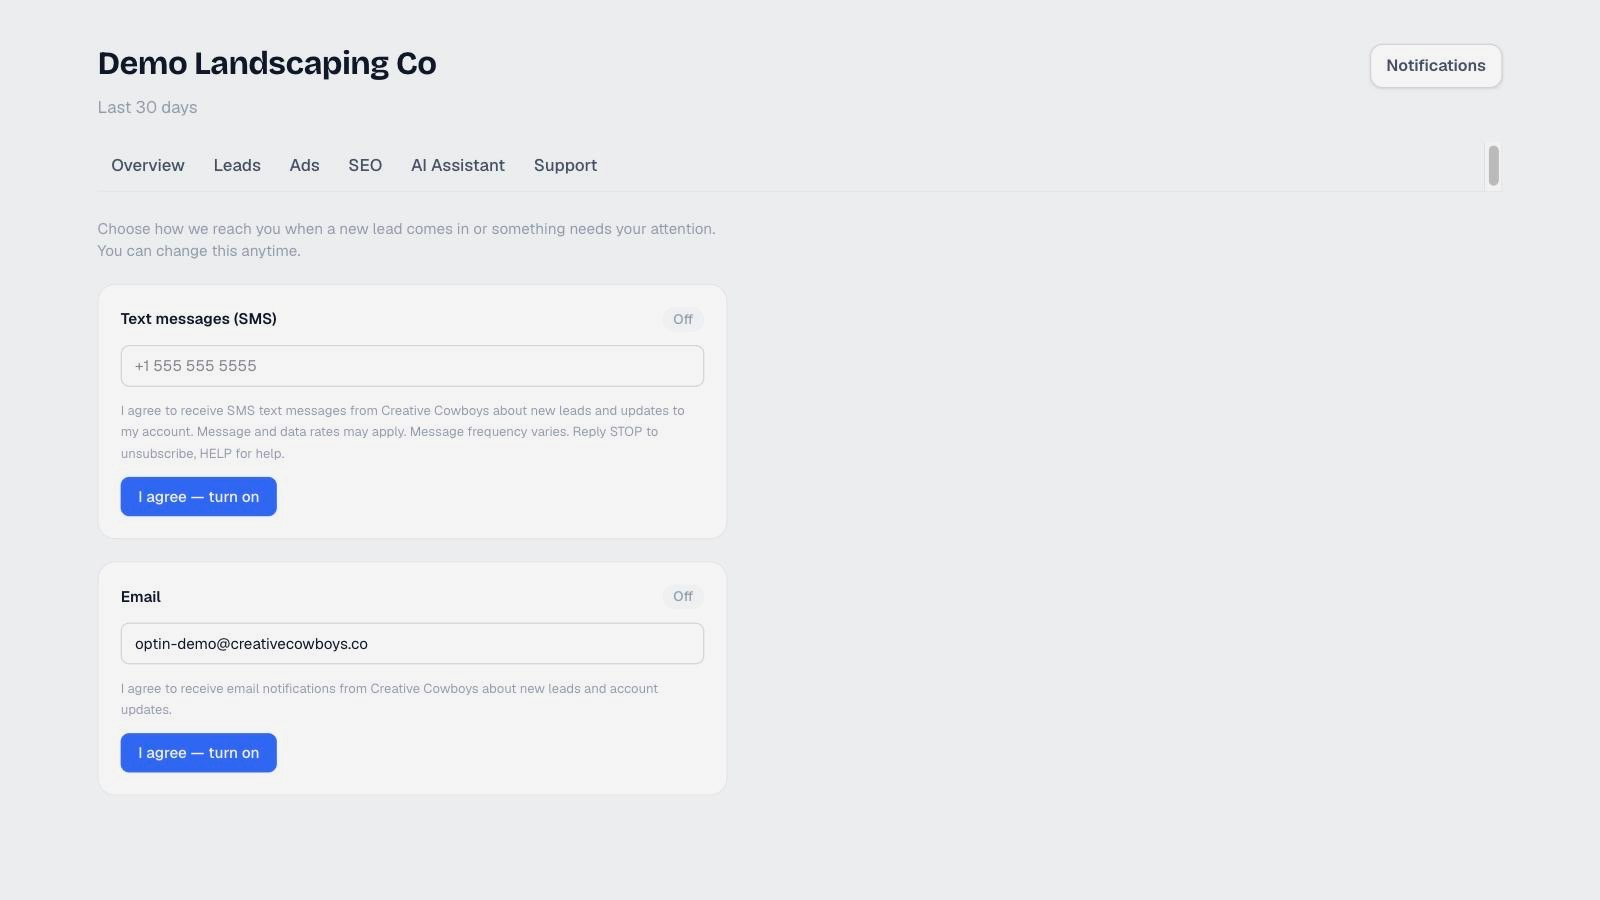
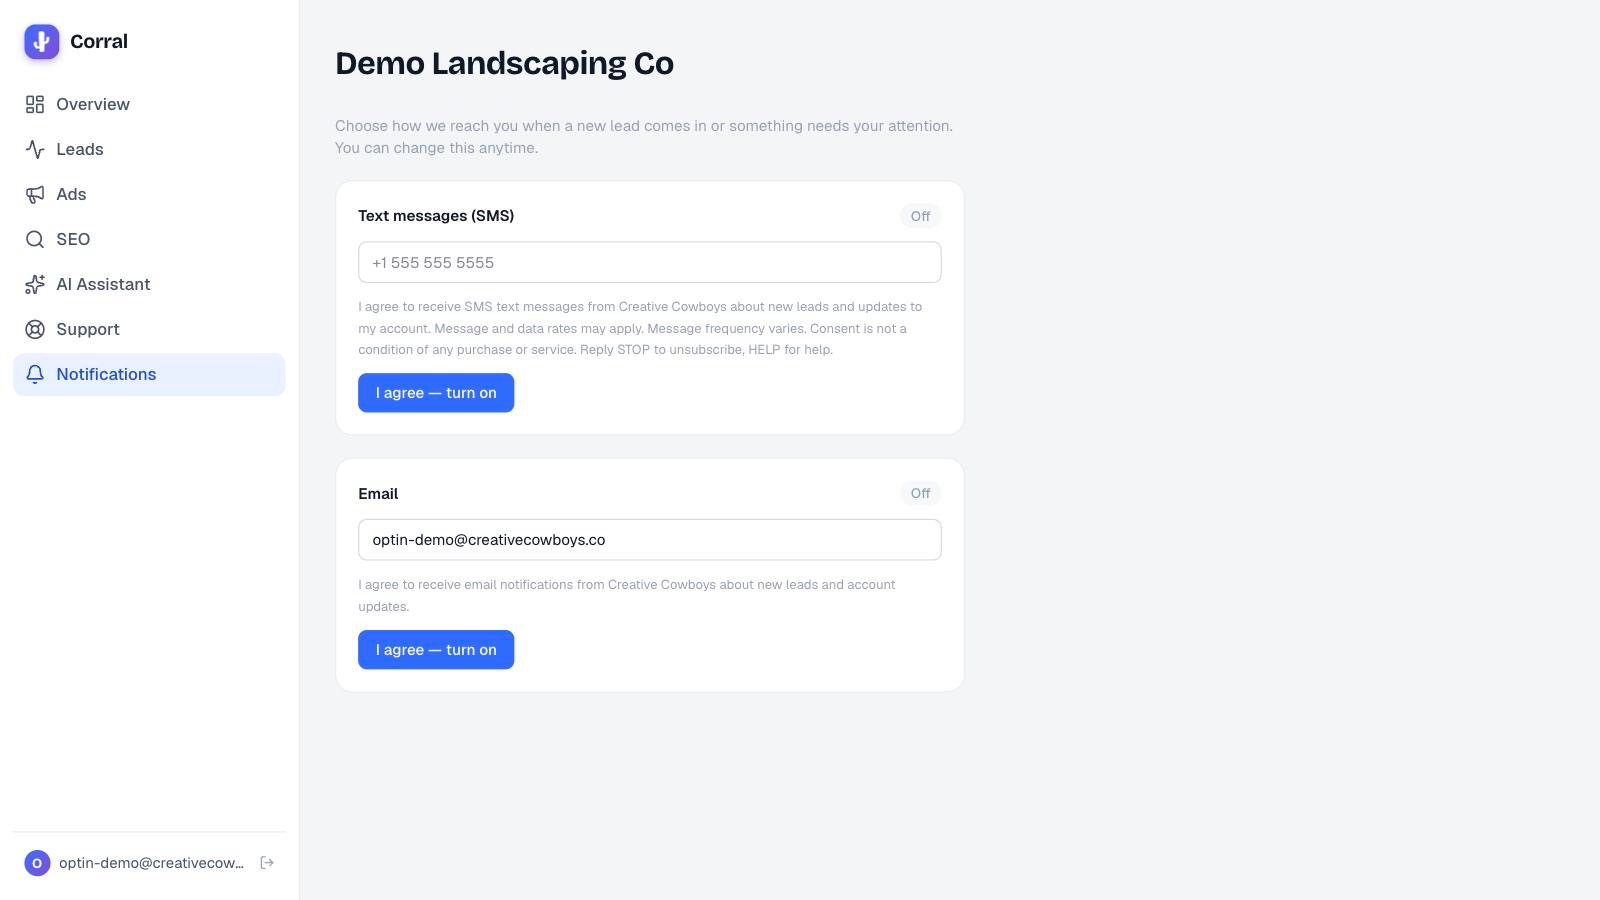
fix(a2p): swap in Josh's updated opt-in screenshots (match new consent wording)
Both screenshots now show "Consent is not a condition of any purchase or
service", matching the page text and the live app. Completes FIX 5a.

diff --git a/src/app/sms-optin/page.tsx b/src/app/sms-optin/page.tsx
@@ -279,7 +279,7 @@ export default function SmsOptInPage() {
                         src="/images/sms/optin-onboarding-form.jpeg"
                         alt="Creative Cowboys client onboarding form with a lead-alert phone field and an unchecked SMS consent checkbox"
                         width={1600}
-                        height={911}
+                        height={900}
                         caption="Onboarding form — the client provides their lead-alert phone number and checks the SMS consent box (unchecked by default). Consent text: “I agree to receive SMS text messages from Creative Cowboys about new leads and updates to my account. Message and data rates may apply. Message frequency varies. Consent is not a condition of any purchase or service. Reply STOP to unsubscribe, HELP for help.”"
                     />
 